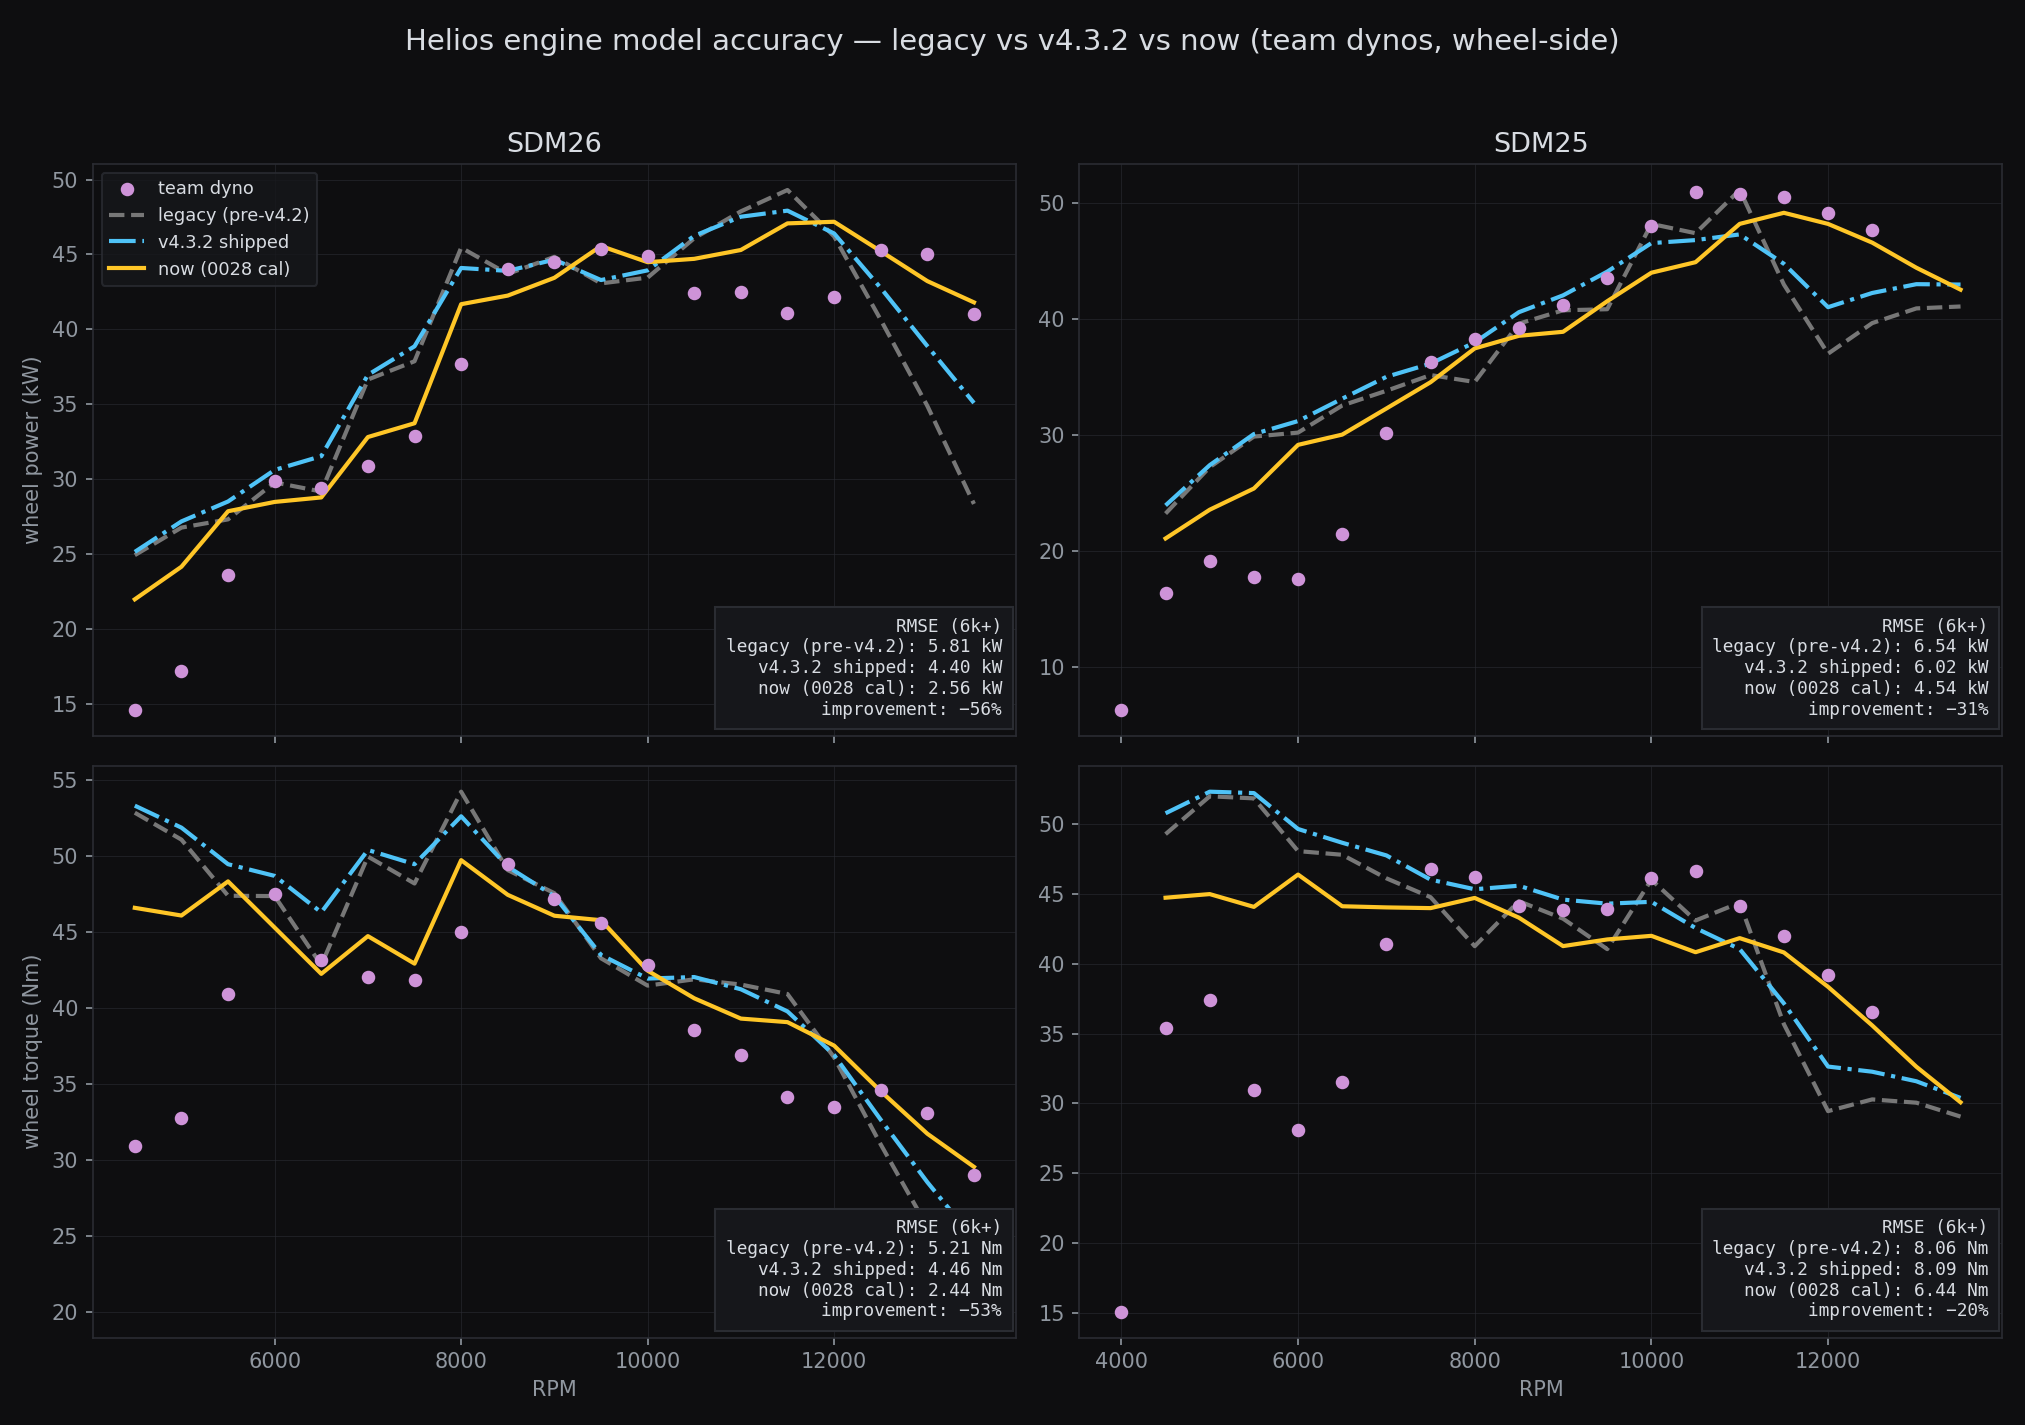
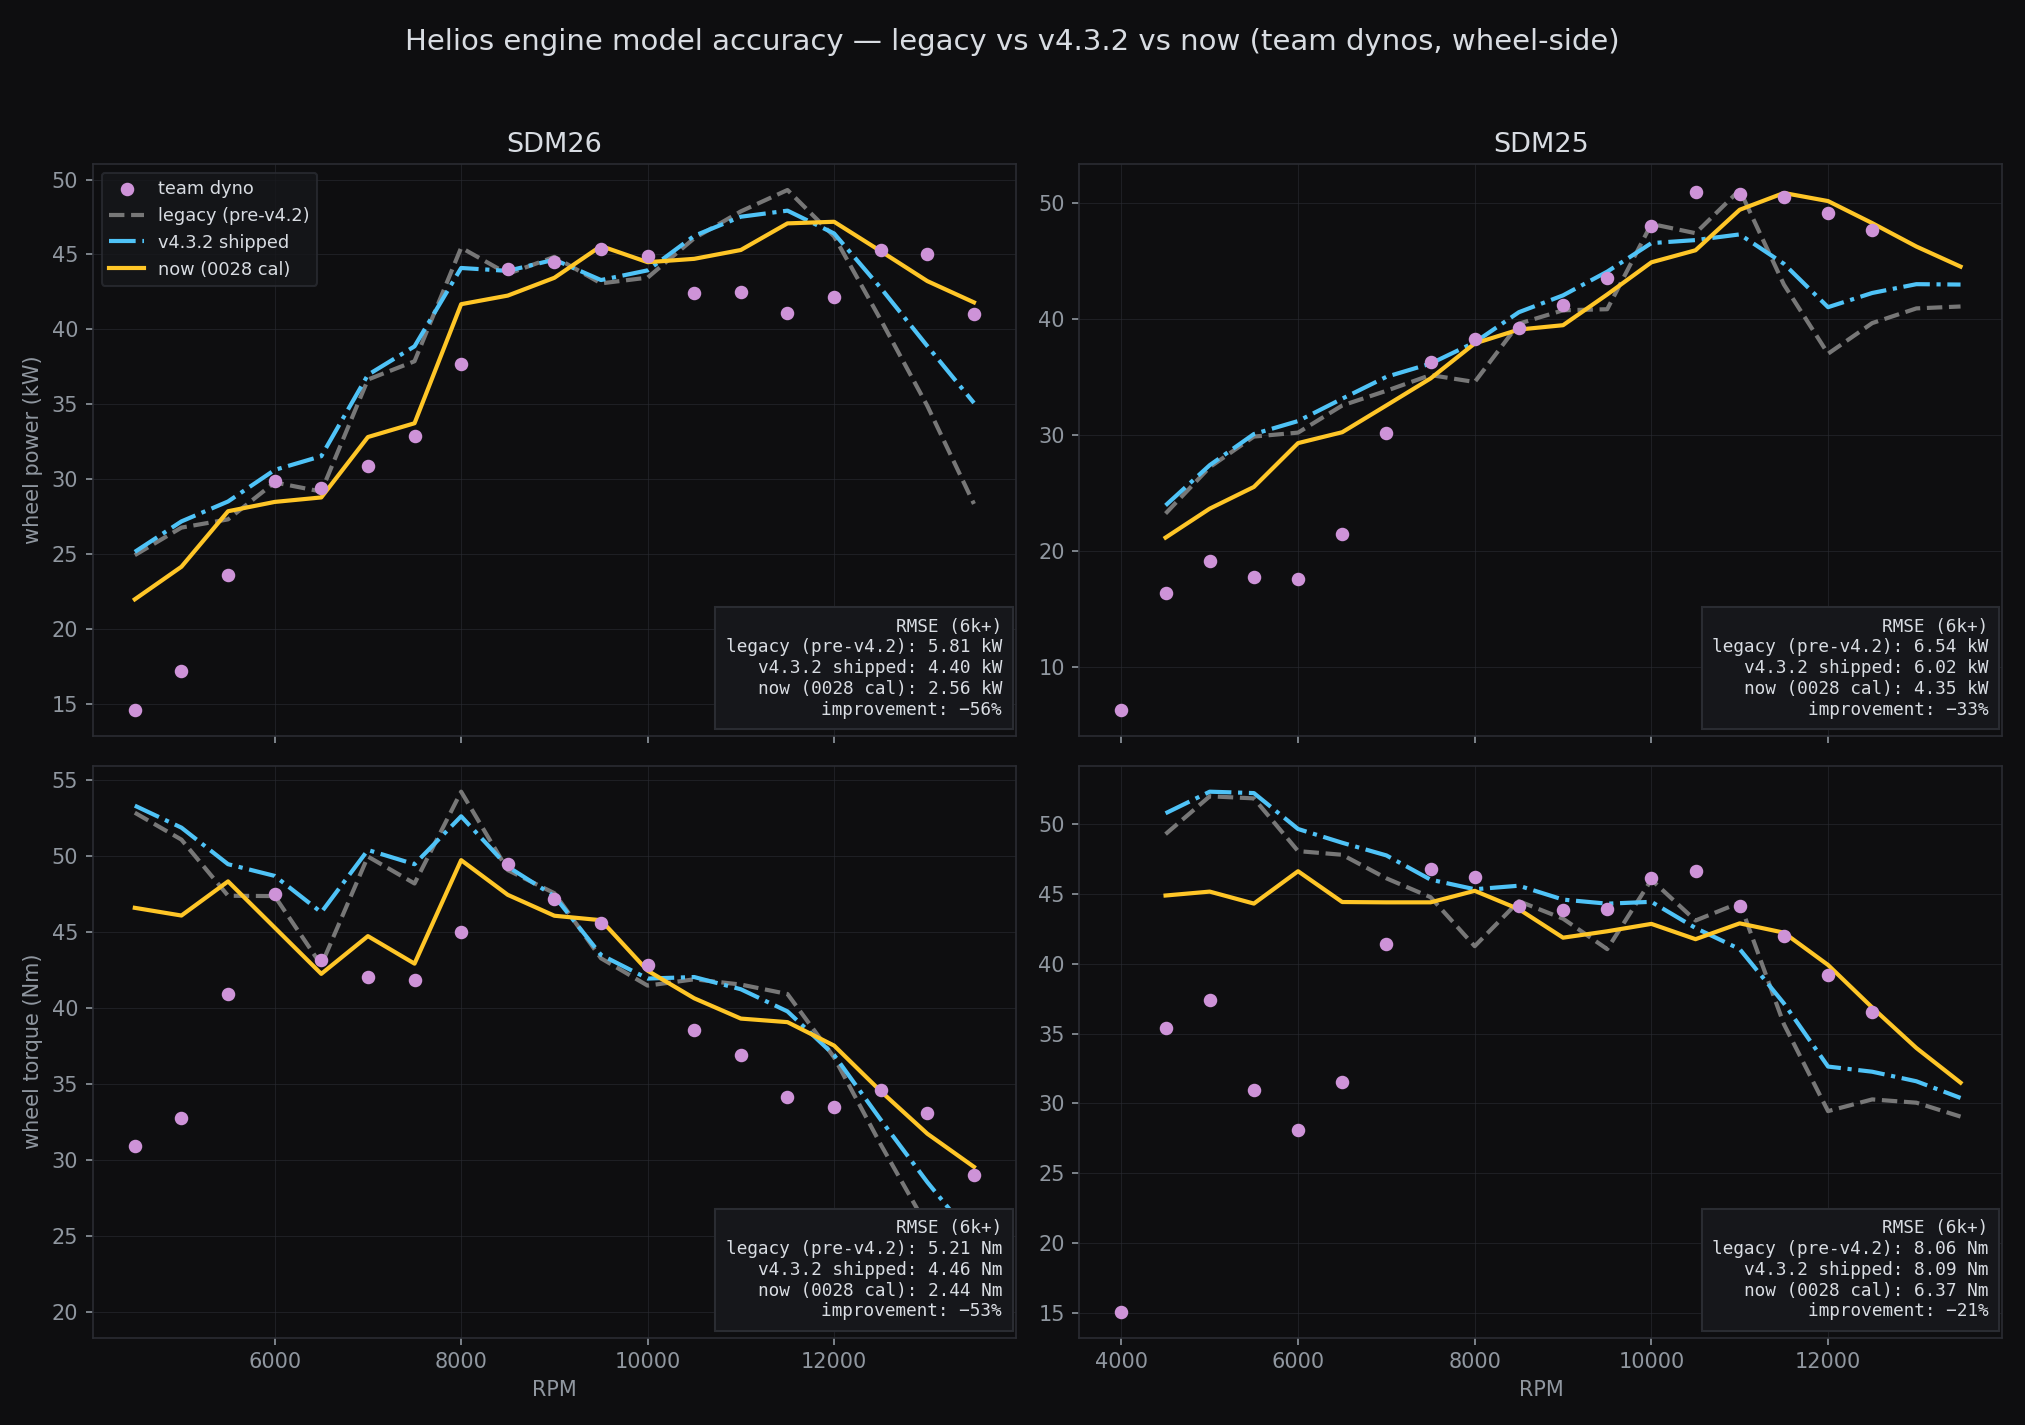
cfd: SDM25 restrictor Cd 0.92 -> 0.967 (finding 0031, Nick-approved best fit)
The 0.92 had no provenance and the cars ran different restrictor designs
(per-engine Cd = as-built fact). Lifts only the choked top end: high-band
bias -2.41 -> -0.89 kW, WOT RMSE 4.54 -> 4.35, dyno peak matched at 11.5k,
sub-10k pixel-identical. SDM26 unchanged (its high-band excess is
tune-attributed, finding 0030). Verified end-to-end via the shipped config;
progress figure regenerated.

diff --git a/physics_findings/0031-sdm25-restrictor-cd/finding.md b/physics_findings/0031-sdm25-restrictor-cd/finding.md
@@ -1,0 +1,40 @@
+---
+id: 31
+slug: sdm25-restrictor-cd
+status: SHIPPED
+topic: SDM25's high-band under-read (bias -2.41 kW at 10.5-13.5k after 0028) traced to its restrictor_cd = 0.92, a value with no provenance. Raising Cd lifts ONLY the choked region above ~10k (curves identical below) — exactly the under-read zone. Nick confirmed the two cars ran DIFFERENT restrictor designs and directed best-fit: SDM25 ships Cd 0.967 (high-band bias -0.89, peak matched at 11.5k, WOT RMSE 4.54 -> 4.35); SDM26 stays 0.95 because its top end already fits and its 10.5-12k excess is tune-attributed (finding 0030) — fitting Cd to it would bake the tune defect into geometry.
+hypothesis: The unprovenanced Cd 0.92 under-states SDM25's restrictor flow; the high-band deficit is a config error, not model physics.
+opened: 2026-06-10
+closed: 2026-06-10
+owner: physics-investigator
+spawned_by: Nick 2026-06-10 "anything we can do to fix the overcorrection on SDM25?"
+commit_hash: ~
+baseline_fingerprint: feat/physics-accuracy-0028 @ 6aa3ded
+revalidation_count: 0
+acceptance_approved_at: 2026-06-10 (Nick: "different designs, pick whatever fits the dyno best for both")
+---
+
+## Evidence (fig_cd_hypothesis.png)
+
+SDM25, 0028 calibration, restrictor_cd swept {0.92 config, 0.95, 0.967}:
+
+| Cd | WOT 6k+ RMSE (kW) | high 10.5k+ RMSE / bias (kW) | torque high RMSE/bias (Nm) |
+|----|------------------:|----------------------------:|---------------------------:|
+| 0.92 | 4.54 | 3.08 / -2.41 | 2.90 / -2.22 |
+| 0.95 | 4.40 | 2.55 / -1.42 | 2.44 / -1.41 |
+| **0.967** | **4.35** | **2.39 / -0.89** | **2.28 / -0.97** |
+
+Shape check: sub-10k curves are pixel-identical across Cd (unchoked flow
+doesn't see the Cd) — the change cannot disturb the mid-range fit, and the
+graph confirms no overshoot anywhere on the trusted band.
+
+## Decision
+
+- `apps/desktop/src-tauri/resources/cfd/configs/sdm25.json`
+  discharge_coefficient 0.92 -> 0.967 (Nick-approved best-fit; the two
+  cars ran different restrictor designs, so per-engine Cd is as-built
+  fact, not coefficient overfit — C10 does not apply to geometry).
+- SDM26 unchanged at 0.95.
+- Residual SDM25 error after this is mid-range shape (8.5-10k slight
+  under-read) + the sub-7k dyno artifact band; both parked with the tune
+  question (finding 0030).
